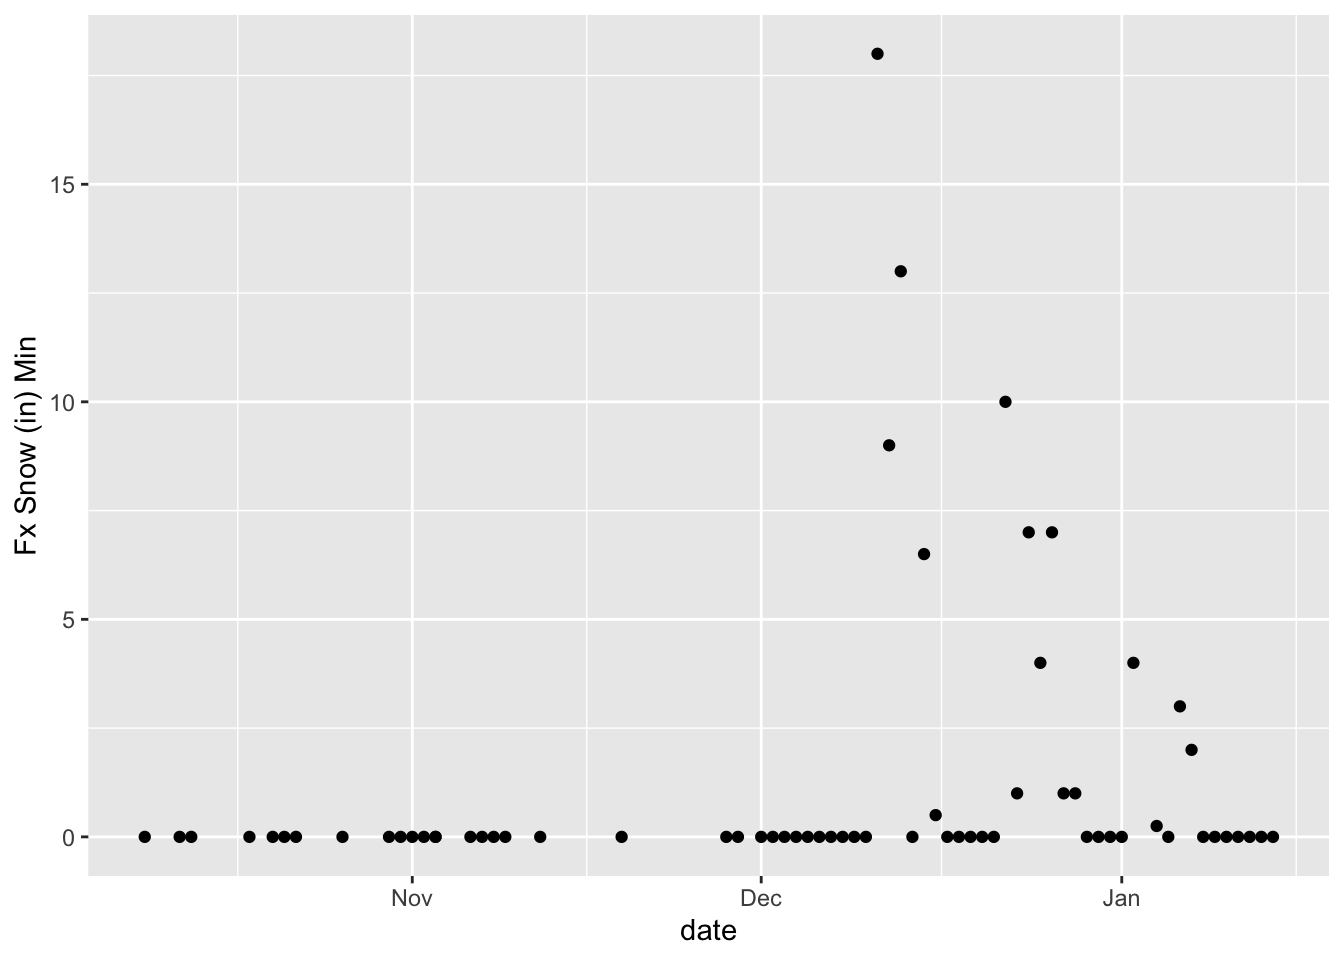
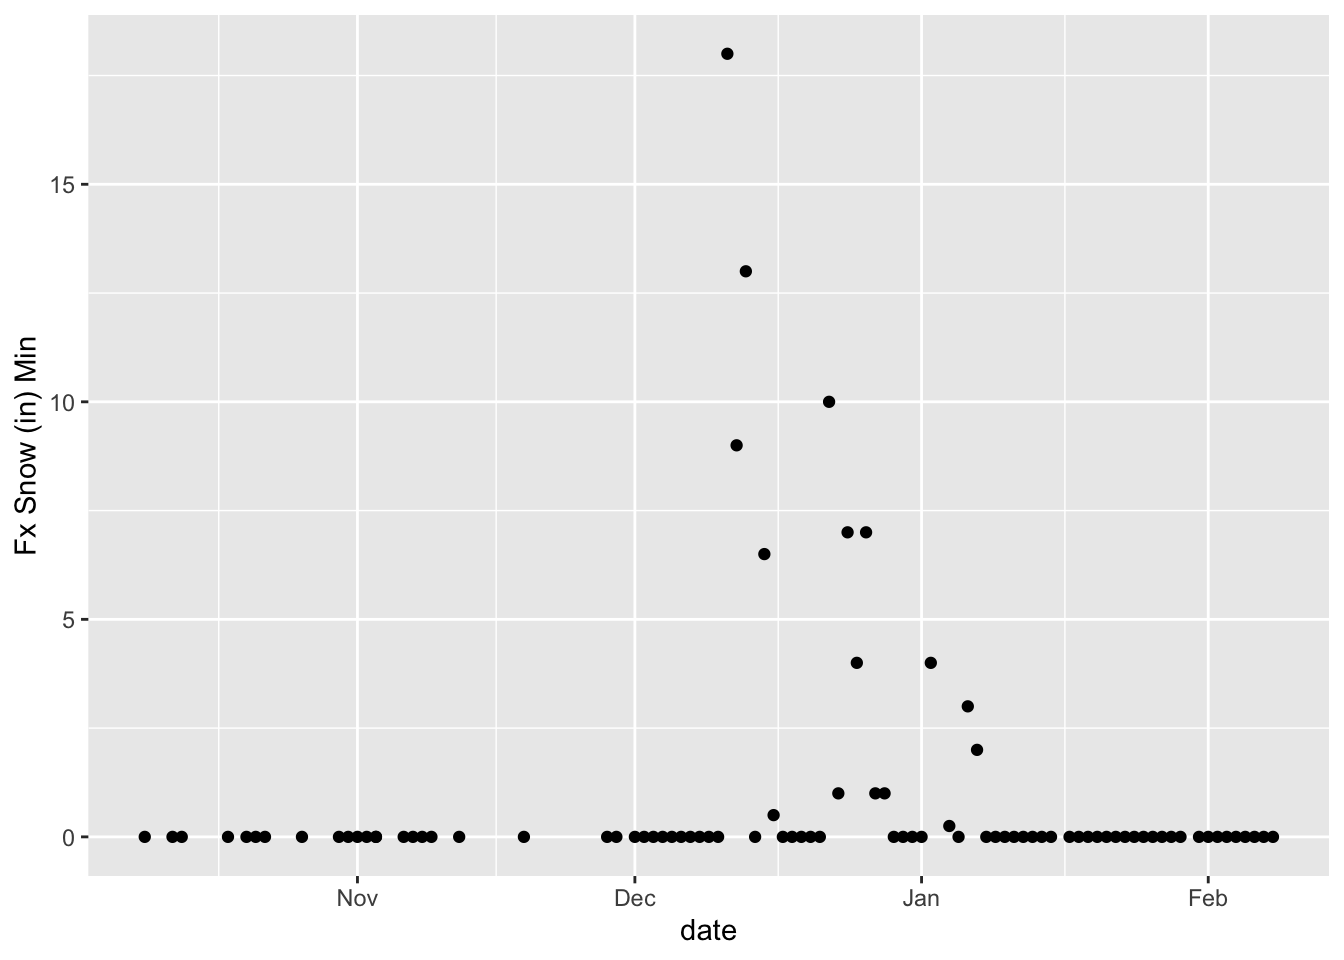
suppress warnings website update

diff --git a/2022/01/15/scraping-weather-data/index.html b/2022/01/15/scraping-weather-data/index.html
@@ -127,40 +127,40 @@ html %&gt;%
     html_element(&quot;.msac-wx-history-table&quot;) %&gt;%
     html_table()</code></pre>
 <pre><code>## # A tibble: 13 × 2
-##    `Weather History Summary from Oct 1, 2021 to Jan 15, 2022` `Weather History …
+##    `Weather History Summary from Oct 1, 2021 to Feb 9, 2022` `Weather History S…
 ##    &lt;chr&gt;                                                                   &lt;dbl&gt;
 ##  1 Temp Max (°F)                                                            58  
 ##  2 Temp Min (°F)                                                             7.5
-##  3 Temp Avg (°F)                                                            30  
-##  4 Wind Max (mi/hr)                                                         41  
+##  3 Temp Avg (°F)                                                            32  
+##  4 Wind Max (mi/hr)                                                         57.5
 ##  5 Wind Min (mi/hr)                                                          0  
-##  6 Wind Avg (mi/hr)                                                         11  
-##  7 Wind Gust Max (mi/hr)                                                    55.2
+##  6 Wind Avg (mi/hr)                                                         12  
+##  7 Wind Gust Max (mi/hr)                                                    92.0
 ##  8 Total Snowfall (in)                                                     152. 
 ##  9 Total Accumulated Precipitation (Water Equivalent) (in)                  12.7
 ## 10 Max Snowfall in 24 Hrs (in)                                              20.6
 ## 11 Snow Depth Max (in)                                                      81.5
 ## 12 Snow Depth Min (in)                                                       0  
-## 13 Snow Depth Avg (in)                                                      42</code></pre>
+## 13 Snow Depth Avg (in)                                                      48</code></pre>
 <pre class="r"><code># Right click on the page and get the xpath to a specific table
 xpath &lt;- &quot;/html/body/div[2]/main/div/article/div/table[2]&quot;
 weather &lt;- html_nodes(html, xpath = xpath)
 html_table(weather)</code></pre>
 <pre><code>## [[1]]
-## # A tibble: 75 × 21
+## # A tibble: 100 × 21
 ##    `Observed and Fore… `Observed and Fore… `Observed and For… `Observed and For…
 ##    &lt;chr&gt;               &lt;chr&gt;               &lt;chr&gt;              &lt;chr&gt;             
 ##  1 &quot;&quot;                  Ob Temp (°F)        Ob Temp (°F)       Ob Temp (°F)      
 ##  2 &quot;Date&quot;              Min                 Max                Avg               
-##  3 &quot;2022 01/14&quot;        38                  49.5               43.5              
-##  4 &quot;2022 01/13&quot;        26.5                38                 31.5              
-##  5 &quot;2022 01/12&quot;        30                  52                 41.5              
-##  6 &quot;2022 01/11&quot;        35.5                49.5               41.5              
-##  7 &quot;2022 01/10&quot;        27                  40                 33.5              
-##  8 &quot;2022 01/09&quot;        26                  37                 31.5              
-##  9 &quot;2022 01/08&quot;        21.5                34.5               29                
-## 10 &quot;2022 01/07&quot;        21.5                27.5               25                
-## # … with 65 more rows, and 17 more variables:
+##  3 &quot;2022 02/08&quot;        37                  51                 42                
+##  4 &quot;2022 02/07&quot;        37.5                53                 43.5              
+##  5 &quot;2022 02/06&quot;        37                  47                 42.5              
+##  6 &quot;2022 02/05&quot;        34.5                48.5               42                
+##  7 &quot;2022 02/04&quot;        31                  46.5               37                
+##  8 &quot;2022 02/03&quot;        28                  39.5               32.5              
+##  9 &quot;2022 02/02&quot;        29                  43.5               37                
+## 10 &quot;2022 02/01&quot;        19.5                39                 31                
+## # … with 90 more rows, and 17 more variables:
 ## #   Observed and Forecast Weather by Day &lt;chr&gt;,
 ## #   Observed and Forecast Weather by Day &lt;chr&gt;,
 ## #   Observed and Forecast Weather by Day &lt;chr&gt;,
@@ -191,109 +191,77 @@ weather2 &lt;- weather2[-c(1,2),]
 
 # take a look
 glimpse(weather2)</code></pre>
-<pre><code>## Rows: 73
+<pre><code>## Rows: 98
 ## Columns: 21
-## $ date                          &lt;chr&gt; &quot;2022 01/14&quot;, &quot;2022 01/13&quot;, &quot;2022 01/12&quot;…
-## $ `Ob Temp (°F) Min`            &lt;chr&gt; &quot;38&quot;, &quot;26.5&quot;, &quot;30&quot;, &quot;35.5&quot;, &quot;27&quot;, &quot;26&quot;, …
-## $ `Ob Temp (°F) Max`            &lt;chr&gt; &quot;49.5&quot;, &quot;38&quot;, &quot;52&quot;, &quot;49.5&quot;, &quot;40&quot;, &quot;37&quot;, …
-## $ `Ob Temp (°F) Avg`            &lt;chr&gt; &quot;43.5&quot;, &quot;31.5&quot;, &quot;41.5&quot;, &quot;41.5&quot;, &quot;33.5&quot;, …
-## $ `Ob Wind (mi/hr) Min`         &lt;chr&gt; &quot;3&quot;, &quot;3.5&quot;, &quot;5&quot;, &quot;8.5&quot;, &quot;3&quot;, &quot;2&quot;, &quot;1&quot;, &quot;…
-## $ `Ob Wind (mi/hr) Max`         &lt;chr&gt; &quot;31&quot;, &quot;24&quot;, &quot;21.5&quot;, &quot;21.5&quot;, &quot;15.5&quot;, &quot;10.…
-## $ `Ob Wind (mi/hr) Avg`         &lt;chr&gt; &quot;18.5&quot;, &quot;12.5&quot;, &quot;11&quot;, &quot;12.5&quot;, &quot;9&quot;, &quot;&quot;, &quot;…
-## $ `Ob Wind (mi/hr) Gust`        &lt;chr&gt; &quot;49.07&quot;, &quot;42.93&quot;, &quot;36.8&quot;, &quot;36.8&quot;, &quot;30.66…
-## $ `Ob Wind (mi/hr) Dir`         &lt;chr&gt; &quot;E&quot;, &quot;WNW&quot;, &quot;W&quot;, &quot;WNW&quot;, &quot;W&quot;, &quot;SE&quot;, &quot;E&quot;, …
-## $ `Ob Snow (in) HS`             &lt;chr&gt; &quot;73.13&quot;, &quot;74.54&quot;, &quot;75.28&quot;, &quot;75.81&quot;, &quot;55.…
-## $ `Ob Snow (in) HN24`           &lt;chr&gt; &quot;0&quot;, &quot;0&quot;, &quot;0&quot;, &quot;0&quot;, &quot;0&quot;, &quot;0&quot;, &quot;0&quot;, &quot;1.6&quot;…
-## $ `Ob Snow (in) SWE`            &lt;chr&gt; &quot;0&quot;, &quot;0&quot;, &quot;0&quot;, &quot;0&quot;, &quot;0&quot;, &quot;0&quot;, &quot;0&quot;, &quot;0.25…
+## $ date                          &lt;chr&gt; &quot;2022 02/08&quot;, &quot;2022 02/07&quot;, &quot;2022 02/06&quot;…
+## $ `Ob Temp (°F) Min`            &lt;chr&gt; &quot;37&quot;, &quot;37.5&quot;, &quot;37&quot;, &quot;34.5&quot;, &quot;31&quot;, &quot;28&quot;, …
+## $ `Ob Temp (°F) Max`            &lt;chr&gt; &quot;51&quot;, &quot;53&quot;, &quot;47&quot;, &quot;48.5&quot;, &quot;46.5&quot;, &quot;39.5&quot;…
+## $ `Ob Temp (°F) Avg`            &lt;chr&gt; &quot;42&quot;, &quot;43.5&quot;, &quot;42.5&quot;, &quot;42&quot;, &quot;37&quot;, &quot;32.5&quot;…
+## $ `Ob Wind (mi/hr) Min`         &lt;chr&gt; &quot;2.5&quot;, &quot;1.5&quot;, &quot;0.5&quot;, &quot;1&quot;, &quot;0&quot;, &quot;2&quot;, &quot;5.5…
+## $ `Ob Wind (mi/hr) Max`         &lt;chr&gt; &quot;23&quot;, &quot;7&quot;, &quot;24.5&quot;, &quot;33.5&quot;, &quot;15.5&quot;, &quot;16&quot;,…
+## $ `Ob Wind (mi/hr) Avg`         &lt;chr&gt; &quot;9&quot;, &quot;3.5&quot;, &quot;12.5&quot;, &quot;16.5&quot;, &quot;5.5&quot;, &quot;7.5&quot;…
+## $ `Ob Wind (mi/hr) Gust`        &lt;chr&gt; &quot;36.8&quot;, &quot;24.54&quot;, &quot;36.8&quot;, &quot;49.07&quot;, &quot;30.66…
+## $ `Ob Wind (mi/hr) Dir`         &lt;chr&gt; &quot;ESE&quot;, &quot;SE&quot;, &quot;E&quot;, &quot;ENE&quot;, &quot;WNW&quot;, &quot;ESE&quot;, &quot;…
+## $ `Ob Snow (in) HS`             &lt;chr&gt; &quot;60.9&quot;, &quot;60.75&quot;, &quot;60.66&quot;, &quot;61.3&quot;, &quot;61.72…
+## $ `Ob Snow (in) HN24`           &lt;chr&gt; &quot;0&quot;, &quot;0&quot;, &quot;0&quot;, &quot;0&quot;, &quot;0&quot;, &quot;0&quot;, &quot;0&quot;, &quot;0&quot;, …
+## $ `Ob Snow (in) SWE`            &lt;chr&gt; &quot;0&quot;, &quot;0&quot;, &quot;0&quot;, &quot;0&quot;, &quot;0&quot;, &quot;0&quot;, &quot;0&quot;, &quot;0&quot;, …
 ## $ `Ob Snow (in) Total Snowfall` &lt;chr&gt; &quot;151.7&quot;, &quot;151.7&quot;, &quot;151.7&quot;, &quot;151.7&quot;, &quot;151…
-## $ `Fx Temp (°F) Min`            &lt;chr&gt; &quot;34&quot;, &quot;25&quot;, &quot;30&quot;, &quot;37&quot;, &quot;38&quot;, &quot;29&quot;, &quot;25&quot;…
-## $ `Fx Temp (°F) Max`            &lt;chr&gt; &quot;40&quot;, &quot;35&quot;, &quot;44&quot;, &quot;41&quot;, &quot;37&quot;, &quot;36&quot;, &quot;31&quot;…
-## $ `Fx Wind (mi/hr) Min`         &lt;chr&gt; &quot;10&quot;, &quot;45&quot;, &quot;25&quot;, &quot;25&quot;, &quot;45&quot;, &quot;15&quot;, &quot;15&quot;…
-## $ `Fx Wind (mi/hr) Max`         &lt;chr&gt; &quot;20&quot;, &quot;55&quot;, &quot;30&quot;, &quot;30&quot;, &quot;80&quot;, &quot;29&quot;, &quot;25&quot;…
-## $ `Fx Snow (in) Min`            &lt;chr&gt; &quot;0&quot;, &quot;0&quot;, &quot;0&quot;, &quot;0&quot;, &quot;0&quot;, &quot;0&quot;, &quot;0&quot;, &quot;2&quot;, …
-## $ `Fx Snow (in) Max`            &lt;chr&gt; &quot;0&quot;, &quot;0&quot;, &quot;0&quot;, &quot;0&quot;, &quot;0&quot;, &quot;0&quot;, &quot;0&quot;, &quot;5&quot;, …
-## $ `Fx Snow (in) SWE`            &lt;chr&gt; &quot;0&quot;, &quot;0&quot;, &quot;0&quot;, &quot;0&quot;, &quot;0&quot;, &quot;0&quot;, &quot;0&quot;, &quot;0.22…
+## $ `Fx Temp (°F) Min`            &lt;chr&gt; &quot;38&quot;, &quot;38&quot;, &quot;39&quot;, &quot;35&quot;, &quot;30&quot;, &quot;30&quot;, &quot;24&quot;…
+## $ `Fx Temp (°F) Max`            &lt;chr&gt; &quot;50&quot;, &quot;50&quot;, &quot;47&quot;, &quot;45&quot;, &quot;43&quot;, &quot;34&quot;, &quot;35&quot;…
+## $ `Fx Wind (mi/hr) Min`         &lt;chr&gt; &quot;15&quot;, &quot;15&quot;, &quot;10&quot;, &quot;15&quot;, &quot;10&quot;, &quot;20&quot;, &quot;50&quot;…
+## $ `Fx Wind (mi/hr) Max`         &lt;chr&gt; &quot;20&quot;, &quot;35&quot;, &quot;20&quot;, &quot;25&quot;, &quot;15&quot;, &quot;25&quot;, &quot;60&quot;…
+## $ `Fx Snow (in) Min`            &lt;chr&gt; &quot;0&quot;, &quot;0&quot;, &quot;0&quot;, &quot;0&quot;, &quot;0&quot;, &quot;0&quot;, &quot;0&quot;, &quot;0&quot;, …
+## $ `Fx Snow (in) Max`            &lt;chr&gt; &quot;0&quot;, &quot;0&quot;, &quot;0&quot;, &quot;0&quot;, &quot;0&quot;, &quot;0&quot;, &quot;0&quot;, &quot;0&quot;, …
+## $ `Fx Snow (in) SWE`            &lt;chr&gt; &quot;0&quot;, &quot;0&quot;, &quot;0&quot;, &quot;0&quot;, &quot;0&quot;, &quot;0&quot;, &quot;0&quot;, &quot;0&quot;, …
 ## $ `Fx Rating `                  &lt;chr&gt; &quot;LOW&quot;, &quot;LOW&quot;, &quot;LOW&quot;, &quot;LOW&quot;, &quot;LOW&quot;, &quot;LOW&quot;…</code></pre>
 <pre class="r"><code># columns that are numeric should be converted back to such. They were coerced into character vectors because of the first two rows were characters.
 weather2 &lt;- weather2 %&gt;%
-mutate_at(c(2:8), as.numeric)</code></pre>
-<pre><code>## Warning in mask$eval_all_mutate(quo): NAs introduced by coercion
+mutate_at(c(2:8), as.numeric)
 
-## Warning in mask$eval_all_mutate(quo): NAs introduced by coercion
-
-## Warning in mask$eval_all_mutate(quo): NAs introduced by coercion
-
-## Warning in mask$eval_all_mutate(quo): NAs introduced by coercion
-
-## Warning in mask$eval_all_mutate(quo): NAs introduced by coercion
-
-## Warning in mask$eval_all_mutate(quo): NAs introduced by coercion
-
-## Warning in mask$eval_all_mutate(quo): NAs introduced by coercion</code></pre>
-<pre class="r"><code>weather2 &lt;- weather2 %&gt;%
-mutate_at(c(10:20), as.numeric)</code></pre>
-<pre><code>## Warning in mask$eval_all_mutate(quo): NAs introduced by coercion
-
-## Warning in mask$eval_all_mutate(quo): NAs introduced by coercion
-
-## Warning in mask$eval_all_mutate(quo): NAs introduced by coercion
-
-## Warning in mask$eval_all_mutate(quo): NAs introduced by coercion
-
-## Warning in mask$eval_all_mutate(quo): NAs introduced by coercion
-
-## Warning in mask$eval_all_mutate(quo): NAs introduced by coercion
-
-## Warning in mask$eval_all_mutate(quo): NAs introduced by coercion
-
-## Warning in mask$eval_all_mutate(quo): NAs introduced by coercion
-
-## Warning in mask$eval_all_mutate(quo): NAs introduced by coercion
-
-## Warning in mask$eval_all_mutate(quo): NAs introduced by coercion
-
-## Warning in mask$eval_all_mutate(quo): NAs introduced by coercion</code></pre>
-<pre class="r"><code># coerce date column
 weather2 &lt;- weather2 %&gt;%
-mutate_at(1, as_date)</code></pre>
-<pre><code>## Warning: 3 failed to parse.</code></pre>
-<pre class="r"><code># take a quick look
+mutate_at(c(10:20), as.numeric)
+
+# coerce date column
+weather2 &lt;- weather2 %&gt;%
+mutate_at(1, as_date)
+
+# take a quick look
 head(weather2)</code></pre>
 <pre><code>##         date Ob Temp (°F) Min Ob Temp (°F) Max Ob Temp (°F) Avg
-## 3 2022-01-14             38.0             49.5             43.5
-## 4 2022-01-13             26.5             38.0             31.5
-## 5 2022-01-12             30.0             52.0             41.5
-## 6 2022-01-11             35.5             49.5             41.5
-## 7 2022-01-10             27.0             40.0             33.5
-## 8 2022-01-09             26.0             37.0             31.5
+## 3 2022-02-08             37.0             51.0             42.0
+## 4 2022-02-07             37.5             53.0             43.5
+## 5 2022-02-06             37.0             47.0             42.5
+## 6 2022-02-05             34.5             48.5             42.0
+## 7 2022-02-04             31.0             46.5             37.0
+## 8 2022-02-03             28.0             39.5             32.5
 ##   Ob Wind (mi/hr) Min Ob Wind (mi/hr) Max Ob Wind (mi/hr) Avg
-## 3                 3.0                31.0                18.5
-## 4                 3.5                24.0                12.5
-## 5                 5.0                21.5                11.0
-## 6                 8.5                21.5                12.5
-## 7                 3.0                15.5                 9.0
-## 8                 2.0                10.5                  NA
+## 3                 2.5                23.0                 9.0
+## 4                 1.5                 7.0                 3.5
+## 5                 0.5                24.5                12.5
+## 6                 1.0                33.5                16.5
+## 7                 0.0                15.5                 5.5
+## 8                 2.0                16.0                 7.5
 ##   Ob Wind (mi/hr) Gust Ob Wind (mi/hr) Dir Ob Snow (in) HS Ob Snow (in) HN24
-## 3                49.07                   E           73.13                 0
-## 4                42.93                 WNW           74.54                 0
-## 5                36.80                   W           75.28                 0
-## 6                36.80                 WNW           75.81                 0
-## 7                30.66                   W           55.60                 0
-## 8                30.66                  SE           77.52                 0
+## 3                36.80                 ESE           60.90                 0
+## 4                24.54                  SE           60.75                 0
+## 5                36.80                   E           60.66                 0
+## 6                49.07                 ENE           61.30                 0
+## 7                30.66                 WNW           61.72                 0
+## 8                30.66                 ESE           61.71                 0
 ##   Ob Snow (in) SWE Ob Snow (in) Total Snowfall Fx Temp (°F) Min
-## 3                0                       151.7               34
-## 4                0                       151.7               25
-## 5                0                       151.7               30
-## 6                0                       151.7               37
-## 7                0                       151.7               38
-## 8                0                       151.7               29
+## 3                0                       151.7               38
+## 4                0                       151.7               38
+## 5                0                       151.7               39
+## 6                0                       151.7               35
+## 7                0                       151.7               30
+## 8                0                       151.7               30
 ##   Fx Temp (°F) Max Fx Wind (mi/hr) Min Fx Wind (mi/hr) Max Fx Snow (in) Min
-## 3               40                  10                  20                0
-## 4               35                  45                  55                0
-## 5               44                  25                  30                0
-## 6               41                  25                  30                0
-## 7               37                  45                  80                0
-## 8               36                  15                  29                0
+## 3               50                  15                  20                0
+## 4               50                  15                  35                0
+## 5               47                  10                  20                0
+## 6               45                  15                  25                0
+## 7               43                  10                  15                0
+## 8               34                  20                  25                0
 ##   Fx Snow (in) Max Fx Snow (in) SWE Fx Rating 
 ## 3                0                0        LOW
 ## 4                0                0        LOW
@@ -302,39 +270,37 @@ head(weather2)</code></pre>
 ## 7                0                0        LOW
 ## 8                0                0        LOW</code></pre>
 <pre class="r"><code>glimpse(weather2)</code></pre>
-<pre><code>## Rows: 73
+<pre><code>## Rows: 98
 ## Columns: 21
-## $ date                          &lt;date&gt; 2022-01-14, 2022-01-13, 2022-01-12, 202…
-## $ `Ob Temp (°F) Min`            &lt;dbl&gt; 38.0, 26.5, 30.0, 35.5, 27.0, 26.0, 21.5…
-## $ `Ob Temp (°F) Max`            &lt;dbl&gt; 49.5, 38.0, 52.0, 49.5, 40.0, 37.0, 34.5…
-## $ `Ob Temp (°F) Avg`            &lt;dbl&gt; 43.5, 31.5, 41.5, 41.5, 33.5, 31.5, 29.0…
-## $ `Ob Wind (mi/hr) Min`         &lt;dbl&gt; 3.0, 3.5, 5.0, 8.5, 3.0, 2.0, 1.0, 13.5,…
-## $ `Ob Wind (mi/hr) Max`         &lt;dbl&gt; 31.0, 24.0, 21.5, 21.5, 15.5, 10.5, 26.0…
-## $ `Ob Wind (mi/hr) Avg`         &lt;dbl&gt; 18.5, 12.5, 11.0, 12.5, 9.0, NA, NA, 19.…
-## $ `Ob Wind (mi/hr) Gust`        &lt;dbl&gt; 49.07, 42.93, 36.80, 36.80, 30.66, 30.66…
-## $ `Ob Wind (mi/hr) Dir`         &lt;chr&gt; &quot;E&quot;, &quot;WNW&quot;, &quot;W&quot;, &quot;WNW&quot;, &quot;W&quot;, &quot;SE&quot;, &quot;E&quot;, …
-## $ `Ob Snow (in) HS`             &lt;dbl&gt; 73.13, 74.54, 75.28, 75.81, 55.60, 77.52…
-## $ `Ob Snow (in) HN24`           &lt;dbl&gt; 0.0, 0.0, 0.0, 0.0, 0.0, 0.0, 0.0, 1.6, …
-## $ `Ob Snow (in) SWE`            &lt;dbl&gt; 0.00, 0.00, 0.00, 0.00, 0.00, 0.00, 0.00…
+## $ date                          &lt;date&gt; 2022-02-08, 2022-02-07, 2022-02-06, 202…
+## $ `Ob Temp (°F) Min`            &lt;dbl&gt; 37.0, 37.5, 37.0, 34.5, 31.0, 28.0, 29.0…
+## $ `Ob Temp (°F) Max`            &lt;dbl&gt; 51.0, 53.0, 47.0, 48.5, 46.5, 39.5, 43.5…
+## $ `Ob Temp (°F) Avg`            &lt;dbl&gt; 42.0, 43.5, 42.5, 42.0, 37.0, 32.5, 37.0…
+## $ `Ob Wind (mi/hr) Min`         &lt;dbl&gt; 2.5, 1.5, 0.5, 1.0, 0.0, 2.0, 5.5, 6.5, …
+## $ `Ob Wind (mi/hr) Max`         &lt;dbl&gt; 23.0, 7.0, 24.5, 33.5, 15.5, 16.0, 47.5,…
+## $ `Ob Wind (mi/hr) Avg`         &lt;dbl&gt; 9.0, 3.5, 12.5, 16.5, 5.5, 7.5, 25.0, 20…
+## $ `Ob Wind (mi/hr) Gust`        &lt;dbl&gt; 36.80, 24.54, 36.80, 49.07, 30.66, 30.66…
+## $ `Ob Wind (mi/hr) Dir`         &lt;chr&gt; &quot;ESE&quot;, &quot;SE&quot;, &quot;E&quot;, &quot;ENE&quot;, &quot;WNW&quot;, &quot;ESE&quot;, &quot;…
+## $ `Ob Snow (in) HS`             &lt;dbl&gt; 60.90, 60.75, 60.66, 61.30, 61.72, 61.71…
+## $ `Ob Snow (in) HN24`           &lt;dbl&gt; 0, 0, 0, 0, 0, 0, 0, 0, 0, 0, 0, 0, 0, 0…
+## $ `Ob Snow (in) SWE`            &lt;dbl&gt; 0, 0, 0, 0, 0, 0, 0, 0, 0, 0, 0, 0, 0, 0…
 ## $ `Ob Snow (in) Total Snowfall` &lt;dbl&gt; 151.7, 151.7, 151.7, 151.7, 151.7, 151.7…
-## $ `Fx Temp (°F) Min`            &lt;dbl&gt; 34, 25, 30, 37, 38, 29, 25, 18, 29, 34, …
-## $ `Fx Temp (°F) Max`            &lt;dbl&gt; 40, 35, 44, 41, 37, 36, 31, 28, 34, 34, …
-## $ `Fx Wind (mi/hr) Min`         &lt;dbl&gt; 10, 45, 25, 25, 45, 15, 15, 40, 30, 40, …
-## $ `Fx Wind (mi/hr) Max`         &lt;dbl&gt; 20, 55, 30, 30, 80, 29, 25, 50, 40, 45, …
-## $ `Fx Snow (in) Min`            &lt;dbl&gt; 0.00, 0.00, 0.00, 0.00, 0.00, 0.00, 0.00…
-## $ `Fx Snow (in) Max`            &lt;dbl&gt; 0.0, 0.0, 0.0, 0.0, 0.0, 0.0, 0.0, 5.0, …
-## $ `Fx Snow (in) SWE`            &lt;dbl&gt; 0.00, 0.00, 0.00, 0.00, 0.00, 0.00, 0.00…
+## $ `Fx Temp (°F) Min`            &lt;dbl&gt; 38, 38, 39, 35, 30, 30, 24, 19, 19, 31, …
+## $ `Fx Temp (°F) Max`            &lt;dbl&gt; 50, 50, 47, 45, 43, 34, 35, 32, 32, 43, …
+## $ `Fx Wind (mi/hr) Min`         &lt;dbl&gt; 15, 15, 10, 15, 10, 20, 50, 25, 20, 0, 5…
+## $ `Fx Wind (mi/hr) Max`         &lt;dbl&gt; 20, 35, 20, 25, 15, 25, 60, 30, 45, 5, 1…
+## $ `Fx Snow (in) Min`            &lt;dbl&gt; 0, 0, 0, 0, 0, 0, 0, 0, 0, 0, 0, 0, 0, 0…
+## $ `Fx Snow (in) Max`            &lt;dbl&gt; 0, 0, 0, 0, 0, 0, 0, 0, 0, 0, 0, 0, 0, 0…
+## $ `Fx Snow (in) SWE`            &lt;dbl&gt; 0, 0, 0, 0, 0, 0, 0, 0, 0, 0, 0, 0, 0, 0…
 ## $ `Fx Rating `                  &lt;chr&gt; &quot;LOW&quot;, &quot;LOW&quot;, &quot;LOW&quot;, &quot;LOW&quot;, &quot;LOW&quot;, &quot;LOW&quot;…</code></pre>
 <pre class="r"><code># Quick few plots to make sure everything looks reasonable
 weather_plot &lt;- ggplot(weather2, aes(x=date, y=`Fx Snow (in) Min`)) +
   geom_point()
 weather_plot</code></pre>
-<pre><code>## Warning: Removed 7 rows containing missing values (geom_point).</code></pre>
 <p><img src="/2022/01/15/scraping-weather-data/index_files/figure-html/unnamed-chunk-4-1.png" width="672" /></p>
 <pre class="r"><code>weather_plot2 &lt;- ggplot(weather2, aes(x=date, y=`Fx Wind (mi/hr) Max`)) +
   geom_point()
 weather_plot2</code></pre>
-<pre><code>## Warning: Removed 27 rows containing missing values (geom_point).</code></pre>
 <p><img src="/2022/01/15/scraping-weather-data/index_files/figure-html/unnamed-chunk-4-2.png" width="672" /></p>
 <p>Up next: Making sure the data is cleaned up after the scrape and coercion.</p>
 <!-- # weather_plot2 <- ggplot(weather2, aes(x=date, y=`Ob Temp (°F) Avg`, color = `Fx Rating `)) +

diff --git a/2022/02/01/uc-reserve-system-environmental-data-1/index.html b/2022/02/01/uc-reserve-system-environmental-data-1/index.html
@@ -140,14 +140,12 @@ names(eco_data)</code></pre>
 ##  [5] &quot;elevation_low&quot;   &quot;elevation_high&quot;  &quot;elevation_range&quot; &quot;precip&quot;         
 ##  [9] &quot;temp_low&quot;        &quot;temp_high&quot;</code></pre>
 <pre class="r"><code>eco_data$temp_high &lt;- as.numeric(eco_data$temp_high)</code></pre>
-<pre><code>## Warning: NAs introduced by coercion</code></pre>
 <p>The classic precipitation vs. temperature ecological plot.</p>
 <pre class="r"><code>classic &lt;- ggplot(eco_data, aes(x=temp_high, y = precip)) +
 geom_point() +
 scale_x_continuous(name=&quot;High Temp (C)&quot;) +
 scale_y_continuous(name=&quot;Precipitation (mm)&quot;)
 classic</code></pre>
-<pre><code>## Warning: Removed 5 rows containing missing values (geom_point).</code></pre>
 <p><img src="/2022/02/01/uc-reserve-system-environmental-data-1/index_files/figure-html/unnamed-chunk-4-1.png" width="672" /></p>
 <p>Another quick plot.</p>
 <pre class="r"><code>elevation_plot1 &lt;- ggplot(eco_data, aes(x=elevation_range, y = unique)) +
@@ -155,7 +153,6 @@ geom_point() +
 scale_x_continuous(name=&quot;Elevation Range (m)&quot;) +
 scale_y_continuous(name=&quot;Number of Unique Species&quot;)
 elevation_plot1</code></pre>
-<pre><code>## Warning: Removed 4 rows containing missing values (geom_point).</code></pre>
 <p><img src="/2022/02/01/uc-reserve-system-environmental-data-1/index_files/figure-html/unnamed-chunk-5-1.png" width="672" /></p>
 
 </div>
